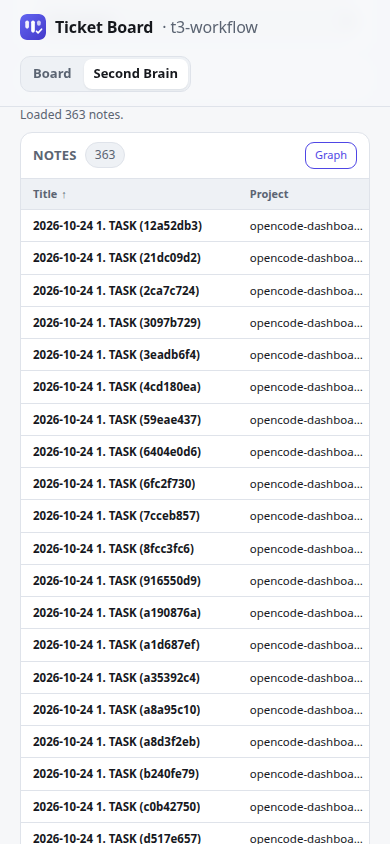
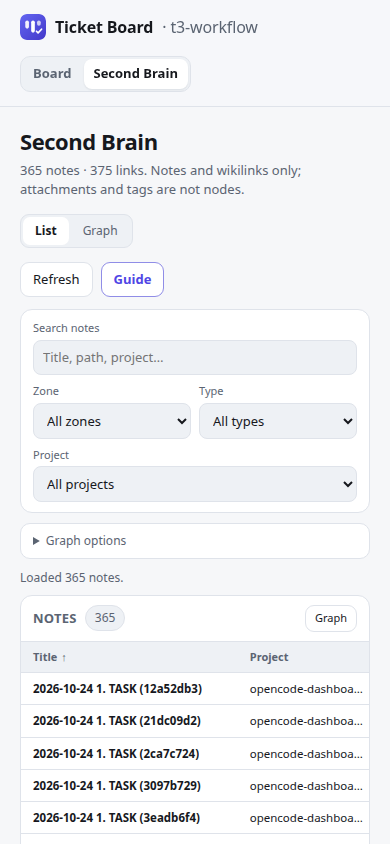
fix(board): make the Second Brain label toggle effective

diff --git a/board/static/brain.js b/board/static/brain.js
@@ -306,7 +306,6 @@
           'text-background-padding': '2px',
           'border-width': 1,
           'border-color': dark ? '#0f1115' : '#ffffff',
-          'min-zoomed-font-size': 7,
         },
       },
       { selector: 'node.brain-dim', style: { opacity: 0.18 } },
@@ -497,7 +496,10 @@
     if (!cy) return;
     const labels = labelsToggle.checked;
     const arrows = arrowsToggle.checked;
-    cy.nodes().forEach((node) => node.style('label', labels ? node.data('label') : ''));
+    cy.nodes().forEach((node) => {
+      node.style('label', node.data('label'));
+      node.style('text-opacity', labels ? 1 : 0);
+    });
     cy.edges().forEach((edge) => edge.style('target-arrow-shape', arrows ? 'triangle' : 'none'));
   }
 

diff --git a/board/static/index.html b/board/static/index.html
@@ -514,7 +514,7 @@
     <details class="brain-options">
       <summary>Graph options</summary>
       <div class="brain-options-body">
-        <label class="brain-check"><input type="checkbox" id="brain-labels" checked> Labels</label>
+        <label class="brain-check"><input type="checkbox" id="brain-labels"> Labels</label>
         <label class="brain-check"><input type="checkbox" id="brain-arrows"> Arrows</label>
         <label class="brain-check"><input type="checkbox" id="brain-local"> Local graph</label>
         <label class="brain-inline">Depth
